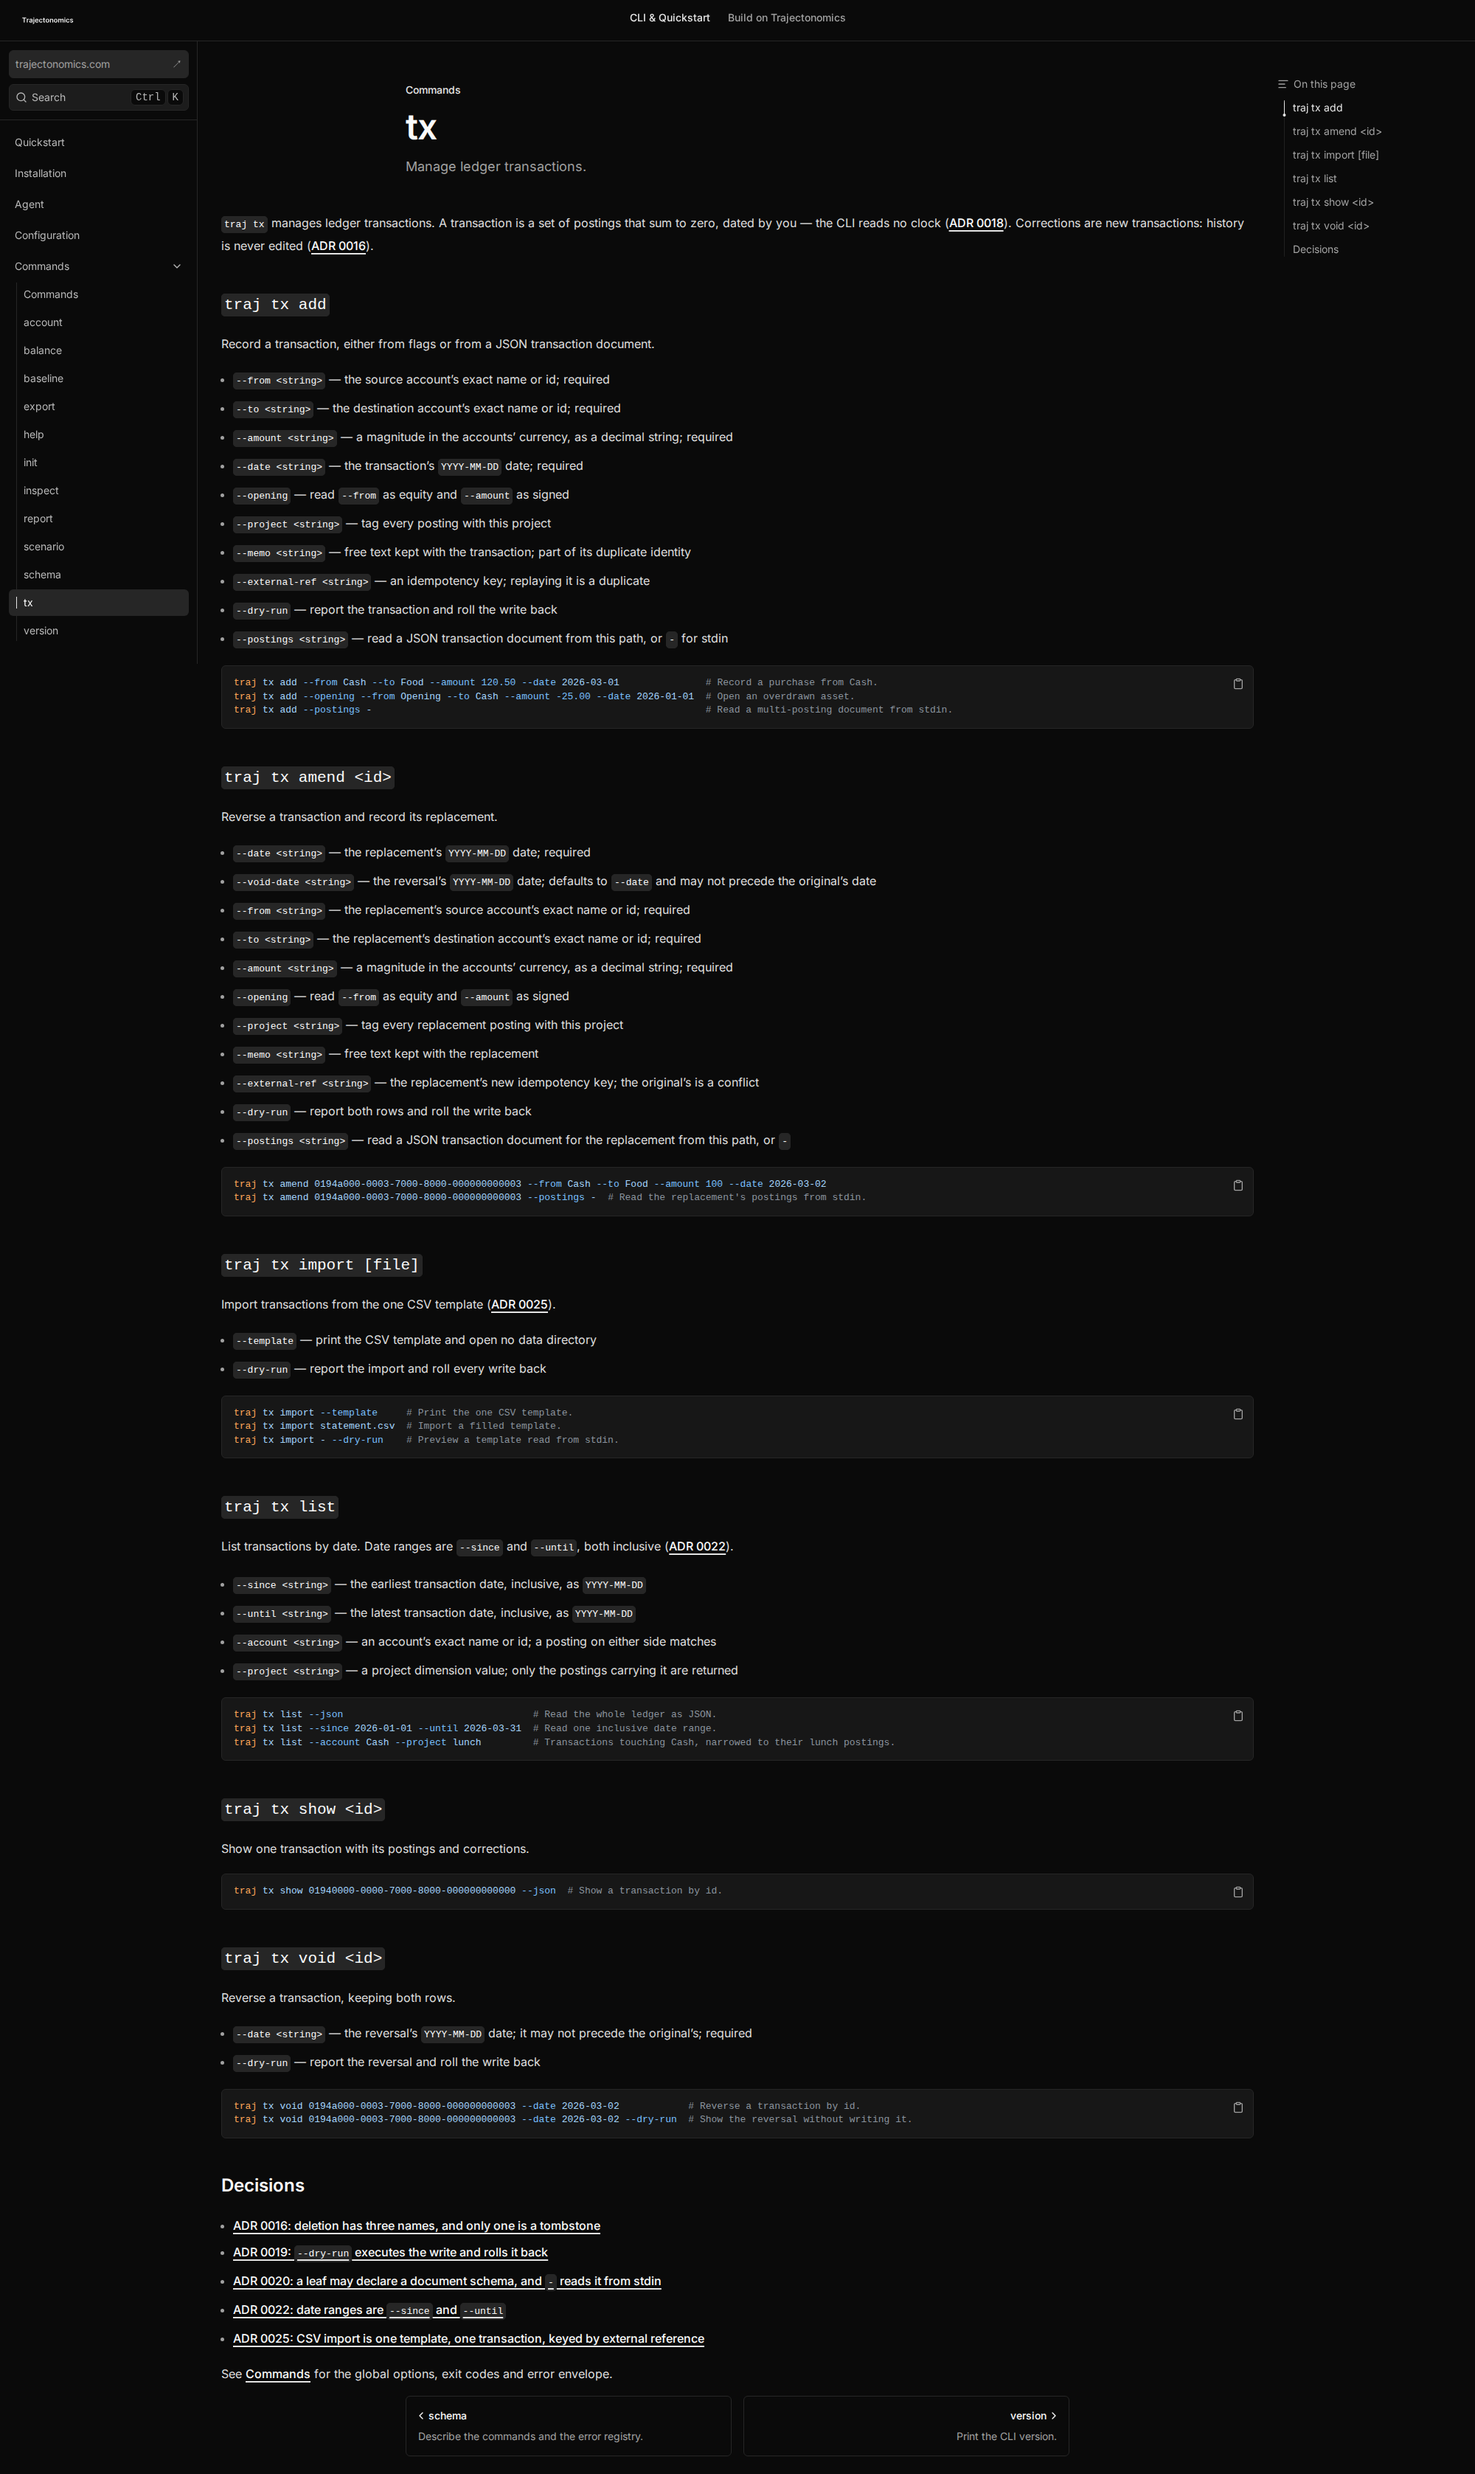
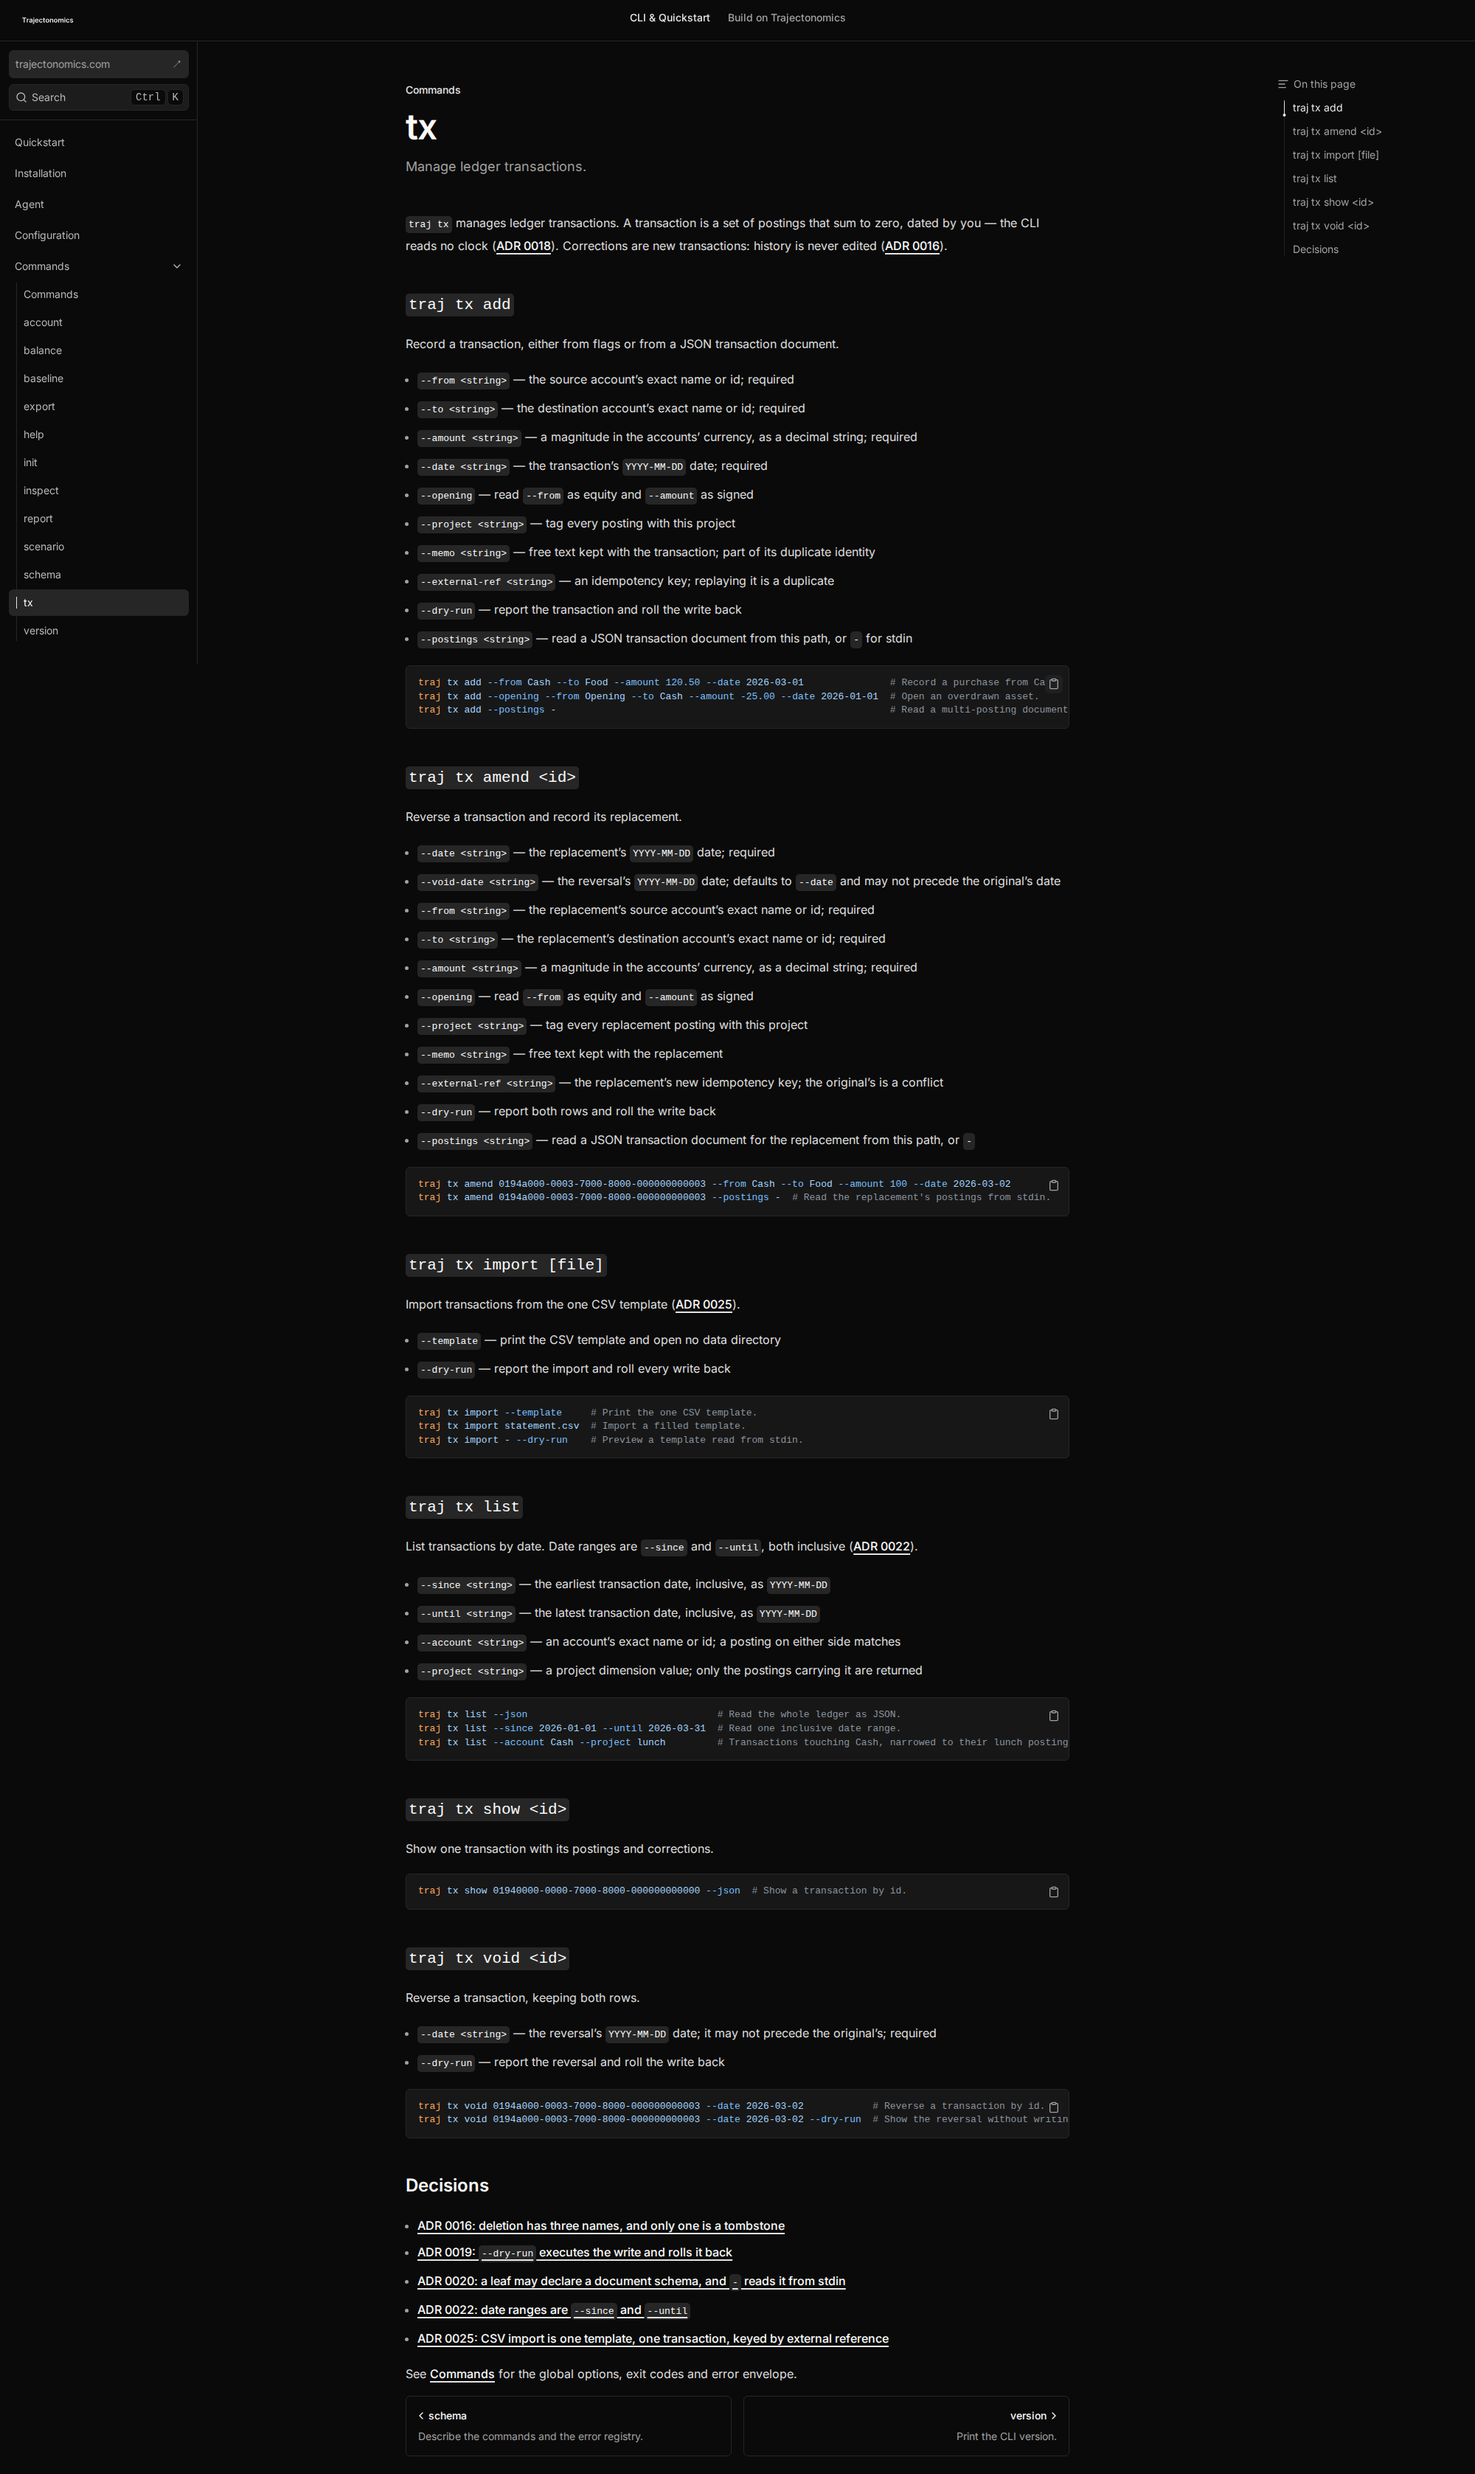
fix: cap the prose wrapper, not the wrapper around it, and show both Tab pages
Surface & Design Review round 2, both findings.

The cap only reached `#nd-page > astro-slot > *`, which is the island element the
slot holds: it and the slot are `display: contents`, so nothing was capped and the
committed 2000px screenshots still showed prose across the page track — the review
was reading the truth. The measure now lands on the prose wrapper the MDX pipeline
renders (`DocsBody` from src/components/mdx.tsx), the browser test measures that
block too, and the regenerated 2000px shots show the column at x=550..1450.

The curated set gains the Builder Tab's index page, at all three widths in both
Themes, because the shell reaches every Tab page.

Changed region(s): [[0.155, 0.062, 0.651, 0.9612]]

diff --git a/src/styles/shell-layout.test.ts b/src/styles/shell-layout.test.ts
@@ -7,8 +7,8 @@ const SEAM_PATH = "src/styles/theme-seam.css"
 /** One child of the reading column: a heading, a paragraph, the content body. */
 const READING_COLUMN_CHILD = "#nd-notebook-layout #nd-page > *"
 
-/** The page's own content, which reaches the reading column through Astro's `display: contents`. */
-const READING_COLUMN_SLOTTED = "#nd-notebook-layout #nd-page > astro-slot > *"
+/** The page's own content: the prose wrapper the MDX pipeline renders for it. */
+const READING_COLUMN_PROSE = "#nd-notebook-layout #nd-page .prose"
 
 /** The sidebar's Tab dropdown, which the one-row header replaces from lg up. */
 const SIDEBAR_TABS = "#nd-sidebar [data-sidebar-tabs]"
@@ -38,7 +38,7 @@ function mediaBlock(css: string, condition: string): string {
 describe("shell layout stylesheet", () => {
 	test("caps and centres the reading column from the seam's measure, not a literal", async () => {
 		const css = await shellCss()
-		for (const selector of [READING_COLUMN_CHILD, READING_COLUMN_SLOTTED]) {
+		for (const selector of [READING_COLUMN_CHILD, READING_COLUMN_PROSE]) {
 			const child = declarationsOf(css, selector)
 			expect(declarationValue(child, "width"), selector).toBe("100%")
 			expect(declarationValue(child, "max-width"), selector).toBe("var(--fd-reading-measure)")

diff --git a/e2e/shell.ts b/e2e/shell.ts
@@ -32,13 +32,13 @@ export async function openDocsPage(page: Page, widthPx: number): Promise<void> {
 }
 
 /**
- * The rendered boxes of the reading column's blocks, past Astro's `display: contents` slot, so the
- * prose is measured as well as the title. A box with no width (a style or script element) is left
- * out.
+ * The rendered boxes of the reading column's blocks: the article's own children (the title, its
+ * description, the pager) and the prose wrapper the MDX pipeline renders for the rest. A box with
+ * no width (a `display: contents` wrapper, a style or script element) is left out.
  */
 export async function readingBlocks(page: Page): Promise<readonly Box[]> {
 	return page.evaluate(() =>
-		[...document.querySelectorAll("#nd-page > *, #nd-page > astro-slot > *")].flatMap((element) => {
+		[...document.querySelectorAll("#nd-page > *, #nd-page .prose")].flatMap((element) => {
 			const rect = element.getBoundingClientRect()
 			return rect.width === 0 ? [] : [{ x: rect.x, width: rect.width, height: rect.height }]
 		}),

diff --git a/scripts/screenshot-pages.ts b/scripts/screenshot-pages.ts
@@ -40,7 +40,7 @@ async function hoverCopyControl(page: Page): Promise<void> {
  * The pages the set shows, each under the file name it is committed as. The search dialog and the
  * phone menu are here because they are the surfaces where a shadow becomes a hairline (docs#90);
  * the sidebar drawer is here because the phone reaches the Site Home button, the search and the Tab
- * dropdown through it (docs#91).
+ * dropdown through it (docs#91). Both Tab pages are here, because the shell reaches every Tab page.
  */
 const PAGES: readonly CuratedPage[] = [
 	{ path: "/docs/", name: "landing-page", widthsPx: TEST_WIDTHS_PX, drive: null, fullPage: true },
@@ -52,6 +52,13 @@ const PAGES: readonly CuratedPage[] = [
 		fullPage: true,
 	},
 	{ path: "/docs/cli/", name: "cli", widthsPx: TEST_WIDTHS_PX, drive: null, fullPage: true },
+	{
+		path: "/docs/developers/",
+		name: "developers",
+		widthsPx: TEST_WIDTHS_PX,
+		drive: null,
+		fullPage: true,
+	},
 	{
 		path: "/docs/cli/commands/tx/",
 		name: "cli-commands-tx",

diff --git a/src/styles/shell-layout.css b/src/styles/shell-layout.css
@@ -77,11 +77,12 @@
  * only took a `max-width` would be centred at its content width, and centring the article's items
  * with `align-items` stops the scroll spy marking the headings it centres (docs#91).
  *
- * The page's own content arrives through Astro's slot, which is `display: contents`: its children
- * are items of the article too, so the measure has to reach them past that slot (docs#91).
+ * The page's own content arrives through Astro's slot and two `display: contents` wrappers, so it
+ * is the prose wrapper the MDX pipeline renders (`DocsBody`, src/components/mdx.tsx) that takes the
+ * measure; a child of the article would only reach the wrappers (docs#91).
  */
 #nd-notebook-layout #nd-page > *,
-#nd-notebook-layout #nd-page > astro-slot > * {
+#nd-notebook-layout #nd-page .prose {
 	width: 100%;
 	max-width: var(--fd-reading-measure);
 	margin-inline: auto;
